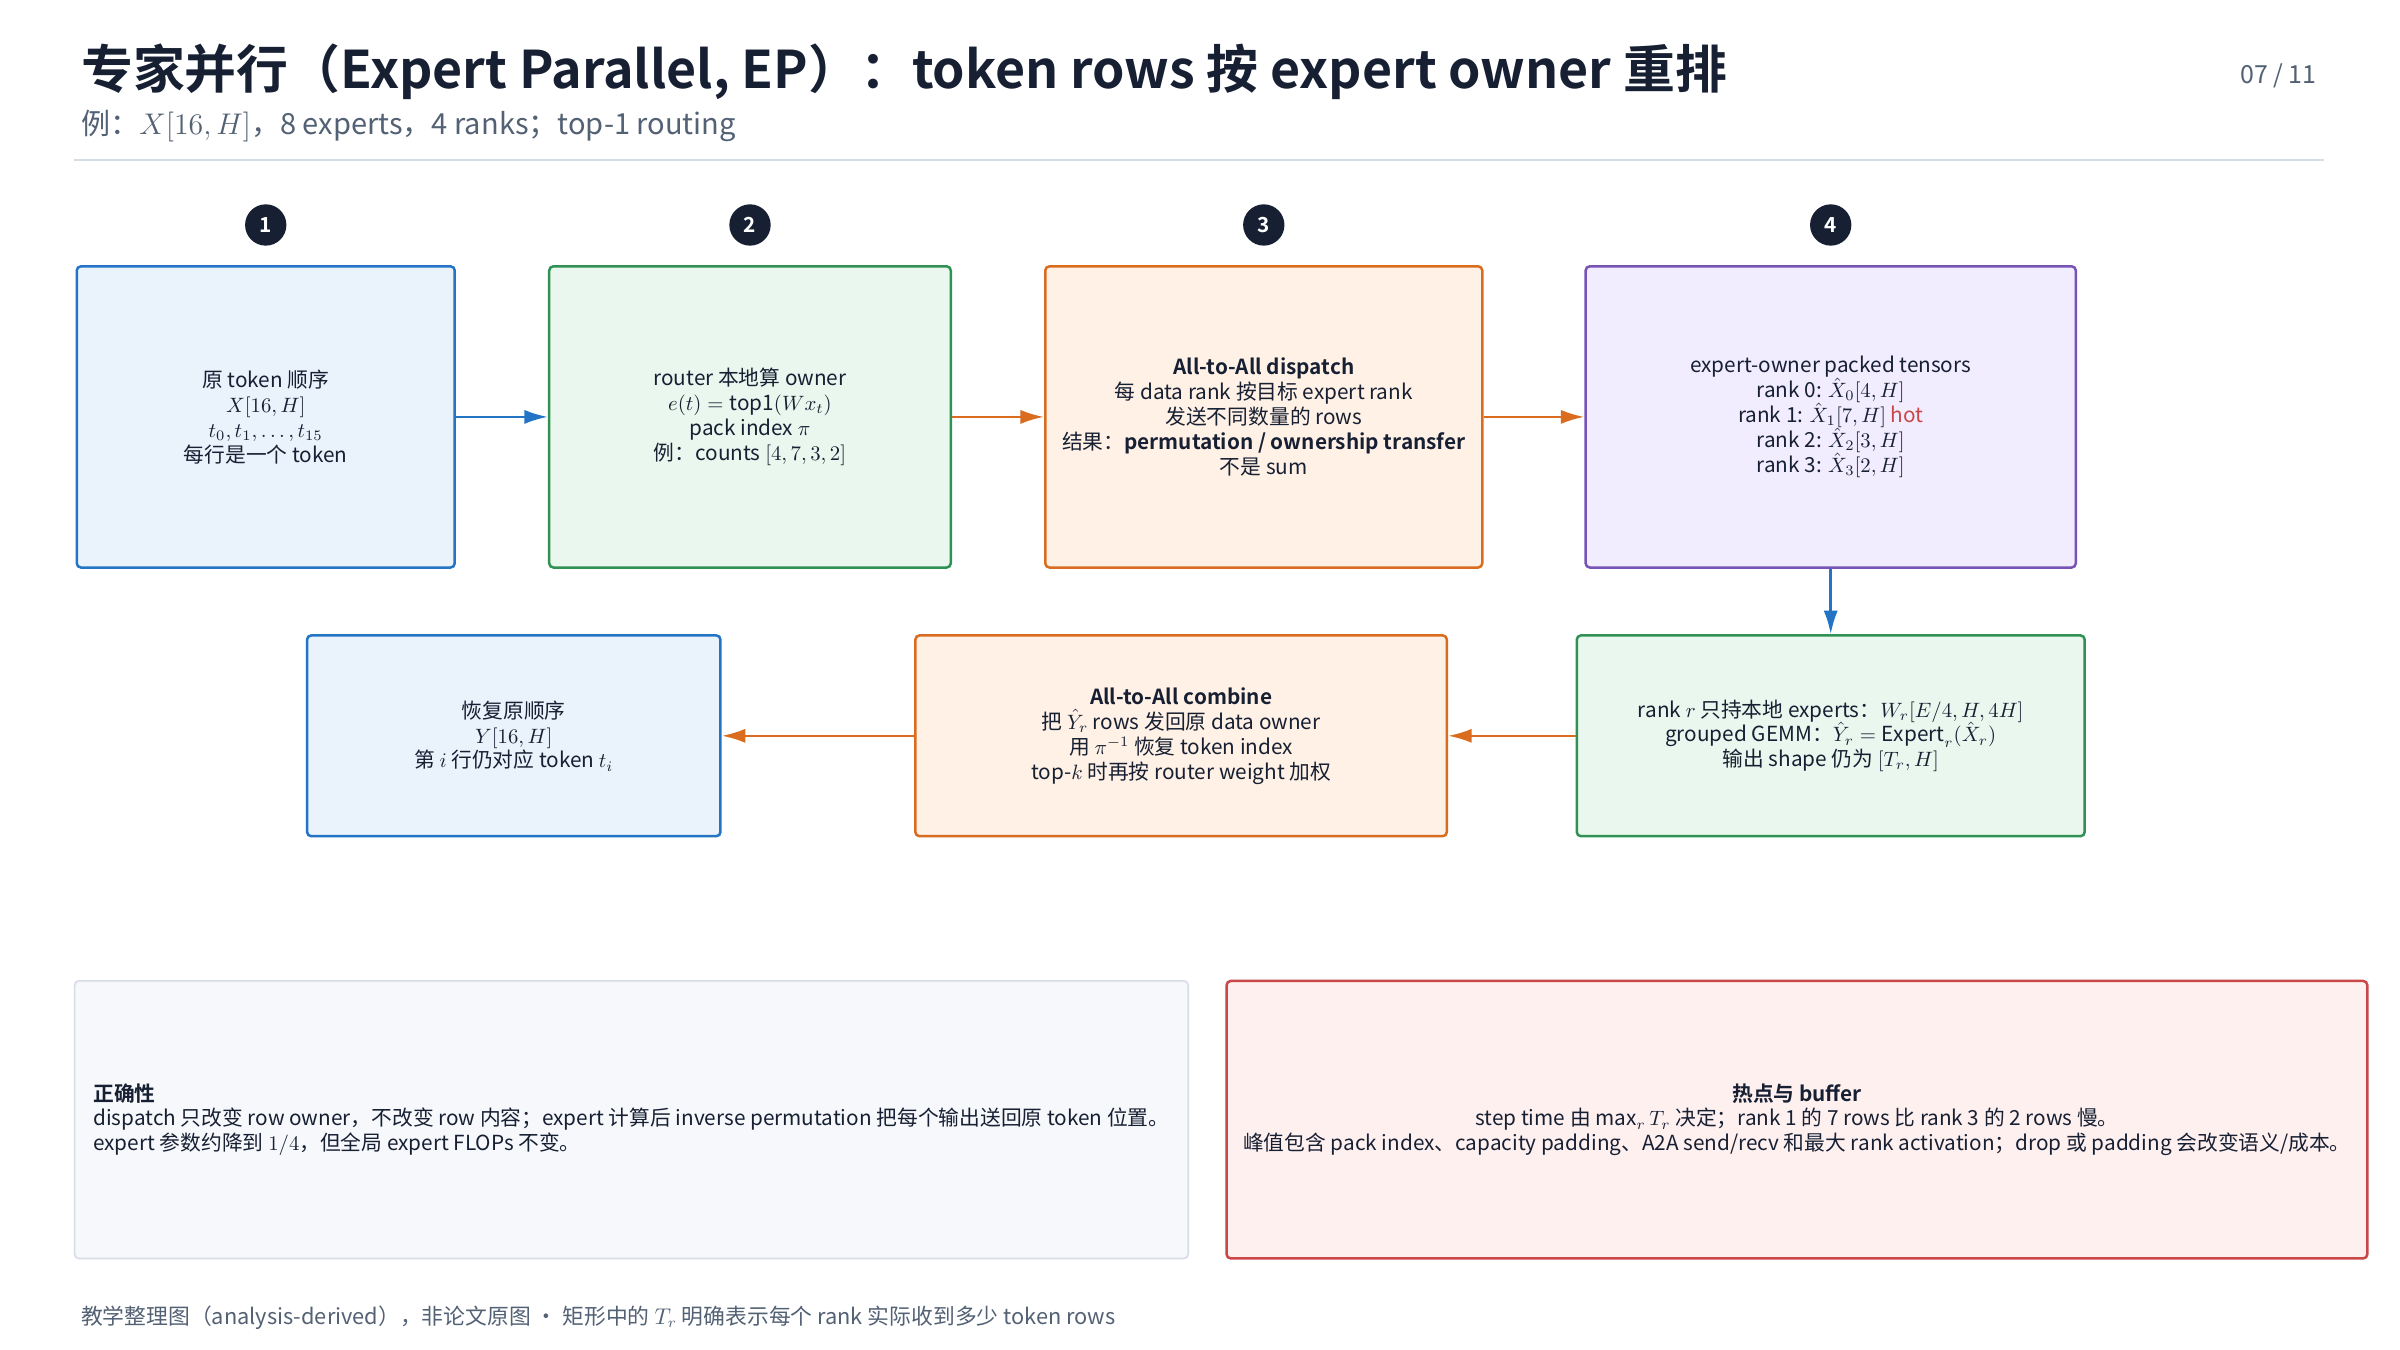
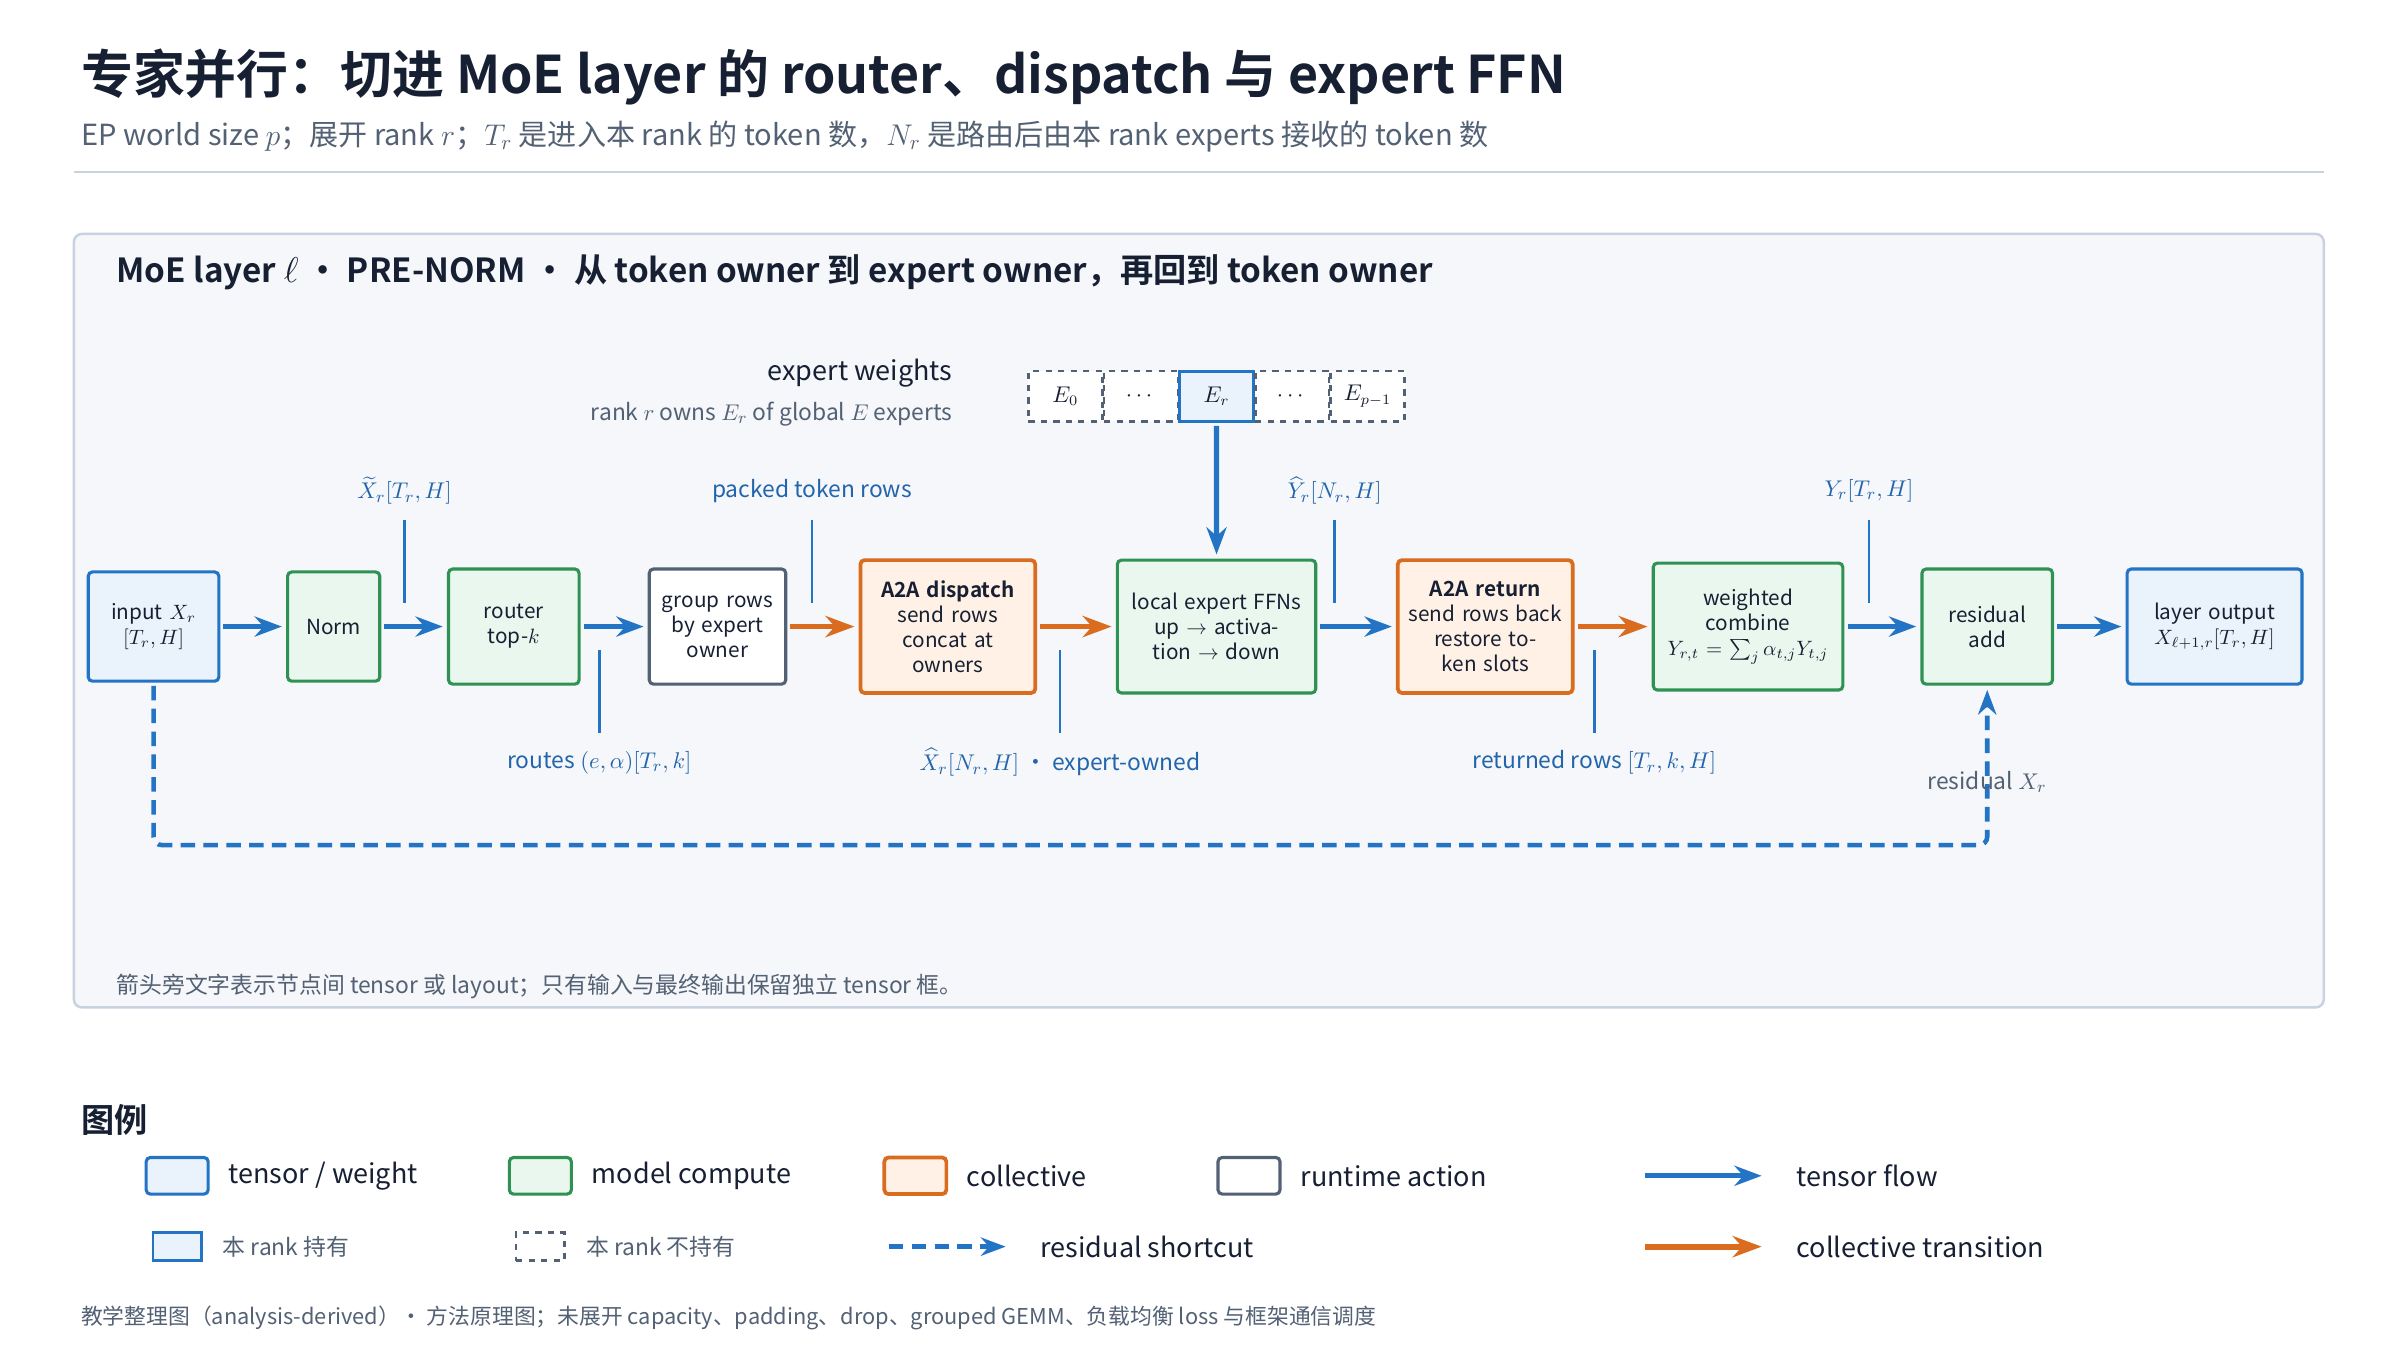
docs(parallelism): refresh training and layer diagrams

diff --git a/01_ai_infra/parallelism/evidence/figure-inventory.md b/01_ai_infra/parallelism/evidence/figure-inventory.md
@@ -44,17 +44,17 @@ canonical: true
 
 以下 11 张 PNG 全部由 [并行切分方法体系](../surveys/parallel-partitioning-taxonomy.md) 独占，使用 TikZ 排版并以 `2400×1350` 输出。它们是 analysis-derived 教学整理图，不是原论文 Figure/Table，不计入论文视觉证据数量。TikZ 源码、PDF、过程渲染、contact sheet 与像素检查保留在 process workspace。
 
-2026-08-03 的 `1.8.0` 修订将普通 DP 与 ZeRO-1/2/3 更新为框架中立的方法机制图：sampler 与 async release 使用独立 runtime-action 语义；weight、gradient 与 optimizer state 显式展示 ownership；ZeRO-2 删除 bucket 等实现优化；ZeRO-3 用 `MODEL LAYERS × L` 标出 layer-local 重复范围，并把 temporary BF16 weight、FWD/BWD 输入依赖和异步 release 侧支画入 workflow。原理图的可见区域不再包含 framework、commit、配置或源码符号。`1.7.0` 修订用每 rank 单条时间线替换 `1.6.0` 的并列支路，使 micro-batch 顺序由箭头拓扑显式表达。`1.6.0` 曾显式列出 $m_1$、$m_2$、$m_K$ 及累计状态，但并列布局容易被误读为同一 rank 内并发，现已替换。`1.5.0` 将 ZeRO-1 修正为 gradient reduce-scatter、owner-local update 和 parameter all-gather。`1.4.0` 修订把 DP/ZeRO 汇总图拆成普通 DP、ZeRO-1、ZeRO-2、ZeRO-3 四张 workflow。2026-08-02 的 `1.3.0` 修订把原 SVG 重绘为 TikZ。`1.2.0` 参考的 [Colossal-AI Parallelism](https://colossalai.org/docs/concepts/paradigms_of_parallelism) 只作为视觉组织参考；tensor 关系、成本注释和边界条件来自本领域 canonical Paper/Topic/Evidence 的综合分析。
+2026-08-04 的 `1.9.0` 修订统一普通 DP、ZeRO-1/2/3、TP 与 EP 的 tensor-flow 视觉语法：保留输入、输出、当前 micro-batch、ownership 和持久状态等有独立语义的框；其余中间 tensor 改为主箭头附近的蓝色标注，并让细引线与主 flow 保持间距。ZeRO 图保留有助于表达顺序执行的 $m_k$，且 all-gather 输出到计算使用单根完整橙色箭头，避免拼接成多色箭头。TP/EP 按 pre-norm layer 粒度展开，`Norm` 不绑定具体归一化实现；residual shortcut 用独立蓝色虚线，TP 以纵/横条纹区分 column/row split 并显式展示本 rank weight shard，EP 采用单向处理链和 expert ownership 条带。`1.8.0` 将普通 DP 与 ZeRO-1/2/3 更新为框架中立的方法机制图：sampler 与 async release 使用独立 runtime-action 语义；weight、gradient 与 optimizer state 显式展示 ownership；ZeRO-2 删除 bucket 等实现优化；ZeRO-3 用 `MODEL LAYERS × L` 标出 layer-local 重复范围，并把 temporary BF16 weight、FWD/BWD 输入依赖和异步 release 侧支画入 workflow。原理图的可见区域不再包含 framework、commit、配置或源码符号。`1.7.0` 修订用每 rank 单条时间线替换 `1.6.0` 的并列支路，使 micro-batch 顺序由箭头拓扑显式表达。`1.6.0` 曾显式列出 $m_1$、$m_2$、$m_K$ 及累计状态，但并列布局容易被误读为同一 rank 内并发，现已替换。`1.5.0` 将 ZeRO-1 修正为 gradient reduce-scatter、owner-local update 和 parameter all-gather。`1.4.0` 修订把 DP/ZeRO 汇总图拆成普通 DP、ZeRO-1、ZeRO-2、ZeRO-3 四张 workflow。2026-08-02 的 `1.3.0` 修订把原 SVG 重绘为 TikZ。`1.2.0` 参考的 [Colossal-AI Parallelism](https://colossalai.org/docs/concepts/paradigms_of_parallelism) 只作为视觉组织参考；tensor 关系、成本注释和边界条件来自本领域 canonical Paper/Topic/Evidence 的综合分析。
 
 | Owner | Asset | 用途 | 分辨率 | 声明 | QA |
 |---|---|---|---|---|---|
-| [并行切分方法体系](../surveys/parallel-partitioning-taxonomy.md) | [普通 DP](../assets/surveys/parallel-partitioning-taxonomy/dp-training-workflow.png) | 顺序执行 $K$ 个 micro-batches、BF16 compute、FP32 gradient accumulation、单次 gradient all-reduce、replicated optimizer update | `2400×1350` | 教学整理图 / 非论文证据 | passed：LuaLaTeX、原分辨率逐图检查、节点类型/箭头/dtype/micro-batch/collective 语义 QA，2026-08-03 |
-| [并行切分方法体系](../surveys/parallel-partitioning-taxonomy.md) | [ZeRO-1](../assets/surveys/parallel-partitioning-taxonomy/zero1-training-workflow.png) | 完整 local FP32 gradient accumulation、gradient reduce-scatter、owner-local optimizer、BF16 parameter all-gather | `2400×1350` | 教学整理图 / 非论文证据 | passed：LuaLaTeX、原分辨率逐图检查、框架中立可见内容、owner/RS/AG 语义 QA，2026-08-03 |
-| [并行切分方法体系](../surveys/parallel-partitioning-taxonomy.md) | [ZeRO-2](../assets/surveys/parallel-partitioning-taxonomy/zero2-training-workflow.png) | 每个 micro-batch 的 FP32 gradient reduce-scatter、owner-shard accumulation、owner-local optimizer 与 BF16 parameter all-gather | `2400×1350` | 教学整理图 / 非论文证据 | passed：LuaLaTeX、原分辨率逐图检查、无 bucket 实现细节、箭头/ownership/collective 语义 QA，2026-08-03 |
-| [并行切分方法体系](../surveys/parallel-partitioning-taxonomy.md) | [ZeRO-3](../assets/surveys/parallel-partitioning-taxonomy/zero3-training-workflow.png) | `MODEL LAYERS × L`、temporary BF16 weight、FWD/BWD 输入依赖、异步 release 侧支、gradient reduce-scatter 与 shard-local optimizer | `2400×1350` | 教学整理图 / 非论文证据 | passed：LuaLaTeX、原分辨率逐图检查、节点类型/文字覆盖/箭头/lifecycle/collective 频率 QA，2026-08-03 |
-| [并行切分方法体系](../surveys/parallel-partitioning-taxonomy.md) | [TP](../assets/surveys/parallel-partitioning-taxonomy/tensor-parallel-block.png) | column-sharded weight -> local GeLU -> row-sharded weight -> partial sum all-reduce | `2400×1350` | 教学整理图 / 非论文证据 | passed after 11-page renumber：原分辨率逐图检查，2026-08-03 |
+| [并行切分方法体系](../surveys/parallel-partitioning-taxonomy.md) | [普通 DP](../assets/surveys/parallel-partitioning-taxonomy/dp-training-workflow.png) | 顺序执行 $K$ 个 micro-batches；箭头标注 BF16 activation、FP32 gradient contribution 与 accumulation；单次 gradient all-reduce 后执行 replicated optimizer update | `2400×1350` | 教学整理图 / 非论文证据 | passed：LuaLaTeX、原分辨率逐图检查、tensor callout 间距、单色完整箭头、dtype/micro-batch/collective/ownership 语义 QA，2026-08-04 |
+| [并行切分方法体系](../surveys/parallel-partitioning-taxonomy.md) | [ZeRO-1](../assets/surveys/parallel-partitioning-taxonomy/zero1-training-workflow.png) | 保留当前 $m_k$；完整 local FP32 gradient accumulation、gradient reduce-scatter、owner-local optimizer、BF16 parameter all-gather | `2400×1350` | 教学整理图 / 非论文证据 | passed：LuaLaTeX、原分辨率逐图检查、tensor callout、框架中立可见内容、owner/RS/AG 语义 QA，2026-08-04 |
+| [并行切分方法体系](../surveys/parallel-partitioning-taxonomy.md) | [ZeRO-2](../assets/surveys/parallel-partitioning-taxonomy/zero2-training-workflow.png) | 保留当前 $m_k$；每个 micro-batch 的 FP32 gradient reduce-scatter、owner-shard accumulation、owner-local optimizer 与 BF16 parameter all-gather | `2400×1350` | 教学整理图 / 非论文证据 | passed：LuaLaTeX、原分辨率逐图检查、无 bucket 实现细节、分支箭头/tensor callout/ownership/collective 语义 QA，2026-08-04 |
+| [并行切分方法体系](../surveys/parallel-partitioning-taxonomy.md) | [ZeRO-3](../assets/surveys/parallel-partitioning-taxonomy/zero3-training-workflow.png) | `MODEL LAYERS × L`、temporary BF16 weight callout、FWD/BWD 输入依赖、异步 release 侧支、gradient reduce-scatter 与 shard-local optimizer | `2400×1350` | 教学整理图 / 非论文证据 | passed：LuaLaTeX、原分辨率逐图检查、无文字覆盖、单根 all-gather 输入箭头、lifecycle/ownership/collective 频率 QA，2026-08-04 |
+| [并行切分方法体系](../surveys/parallel-partitioning-taxonomy.md) | [TP](../assets/surveys/parallel-partitioning-taxonomy/tensor-parallel-block.png) | pre-norm attention/FFN layer；$[B,S,H]$ tensor flow；column/row 条纹、rank-local weight ownership、partial all-reduce 与 residual shortcuts | `2400×1350` | 教学整理图 / 非论文证据 | passed：LuaLaTeX、原分辨率逐图检查、tensor callout 间距、shortcut 分离、weight shard/shape/collective 语义 QA，2026-08-04 |
 | [并行切分方法体系](../surveys/parallel-partitioning-taxonomy.md) | [PP](../assets/surveys/parallel-partitioning-taxonomy/pipeline-parallel-schedule.png) | layer ownership、micro-batch activation/gradient P2P 与 fill-drain bubble | `2400×1350` | 教学整理图 / 非论文证据 | passed after 11-page renumber：原分辨率逐图检查，2026-08-03 |
-| [并行切分方法体系](../surveys/parallel-partitioning-taxonomy.md) | [EP](../assets/surveys/parallel-partitioning-taxonomy/expert-parallel-routing.png) | token row permutation、variable local shape、A2A dispatch/combine 与 hot rank | `2400×1350` | 教学整理图 / 非论文证据 | passed after 11-page renumber：原分辨率逐图检查，2026-08-03 |
+| [并行切分方法体系](../surveys/parallel-partitioning-taxonomy.md) | [EP](../assets/surveys/parallel-partitioning-taxonomy/expert-parallel-routing.png) | pre-norm MoE layer 单向执行链；箭头标注 token layout；A2A dispatch/return、local expert FFN、residual shortcut 与 expert weight ownership | `2400×1350` | 教学整理图 / 非论文证据 | passed：LuaLaTeX、原分辨率逐图检查、flow 顺序、tensor callout 间距、shortcut/ownership/A2A 语义 QA，2026-08-04 |
 | [并行切分方法体系](../surveys/parallel-partitioning-taxonomy.md) | [Megatron SP](../assets/surveys/parallel-partitioning-taxonomy/megatron-sequence-parallel.png) | sequence-sharded non-TP activation、all-gather、TP linear 与 reduce-scatter | `2400×1350` | 教学整理图 / 非论文证据 | passed after 11-page renumber：原分辨率逐图检查，2026-08-03 |
 | [并行切分方法体系](../surveys/parallel-partitioning-taxonomy.md) | [Ulysses](../assets/surveys/parallel-partitioning-taxonomy/ulysses-layout-transpose.png) | sequence/head ownership transpose、sender chunks、receiver concat 与两次 A2A | `2400×1350` | 教学整理图 / 非论文证据 | passed after 11-page renumber：原分辨率逐图检查，2026-08-03 |
 | [并行切分方法体系](../surveys/parallel-partitioning-taxonomy.md) | [Ring/CP](../assets/surveys/parallel-partitioning-taxonomy/ring-context-parallel.png) | local Q ownership、rotating KV payload、block attention、online softmax 与 causal imbalance | `2400×1350` | 教学整理图 / 非论文证据 | passed after 11-page renumber：原分辨率逐图检查，2026-08-03 |

diff --git a/01_ai_infra/parallelism/surveys/parallel-partitioning-taxonomy.md b/01_ai_infra/parallelism/surveys/parallel-partitioning-taxonomy.md
@@ -117,6 +117,8 @@ $$
 
 ![Tensor Parallel block|1337](../assets/surveys/parallel-partitioning-taxonomy/tensor-parallel-block.png)
 
+> 图按 pre-norm Transformer layer 展开 attention 与 FFN 两个子层；`Norm` 只表示归一化操作，不绑定 LayerNorm 等具体实现。蓝色虚线是 residual shortcut，箭头旁的蓝字是流经该边界的 tensor，而非额外算子。输入、输出均保持 $[B,S,H]$；column split 产生可由本 rank 独立消费的 head/hidden shard，row split 产生同 shape 的 partial tensor，再由 all-reduce 按元素求和。上下两组 weight ownership 条带分别给出本 rank 持有的输出轴 shard 与输入轴 shard。
+
 > 教学整理图，非论文证据。原机制图与实现边界见 [Megatron-LM](../papers/megatron-lm.md#核心机制)。
 
 ### 方法卡
@@ -170,6 +172,8 @@ $$
 ## 6. EP：expert ownership 与 token redistribution
 
 ![Expert Parallel routing|1236](../assets/surveys/parallel-partitioning-taxonomy/expert-parallel-routing.png)
+
+> 图按 pre-norm MoE layer 的模型执行顺序从左到右展开。中间矩形只表示处理或通信节点；箭头旁的蓝字标出 tensor layout 如何从 token-owner rows，经 router、按 expert owner 分组、all-to-all dispatch、local expert FFN、all-to-all return，最终恢复原 token slot。蓝色虚线保留输入 $X_r$ 的 residual shortcut，底部 ownership 条带表示 rank $r$ 只持有其负责的 expert weights。
 
 > 教学整理图，非论文证据。GShard 的 expert placement 与系统证据见 [GShard](../papers/gshard.md#核心机制)。
 
